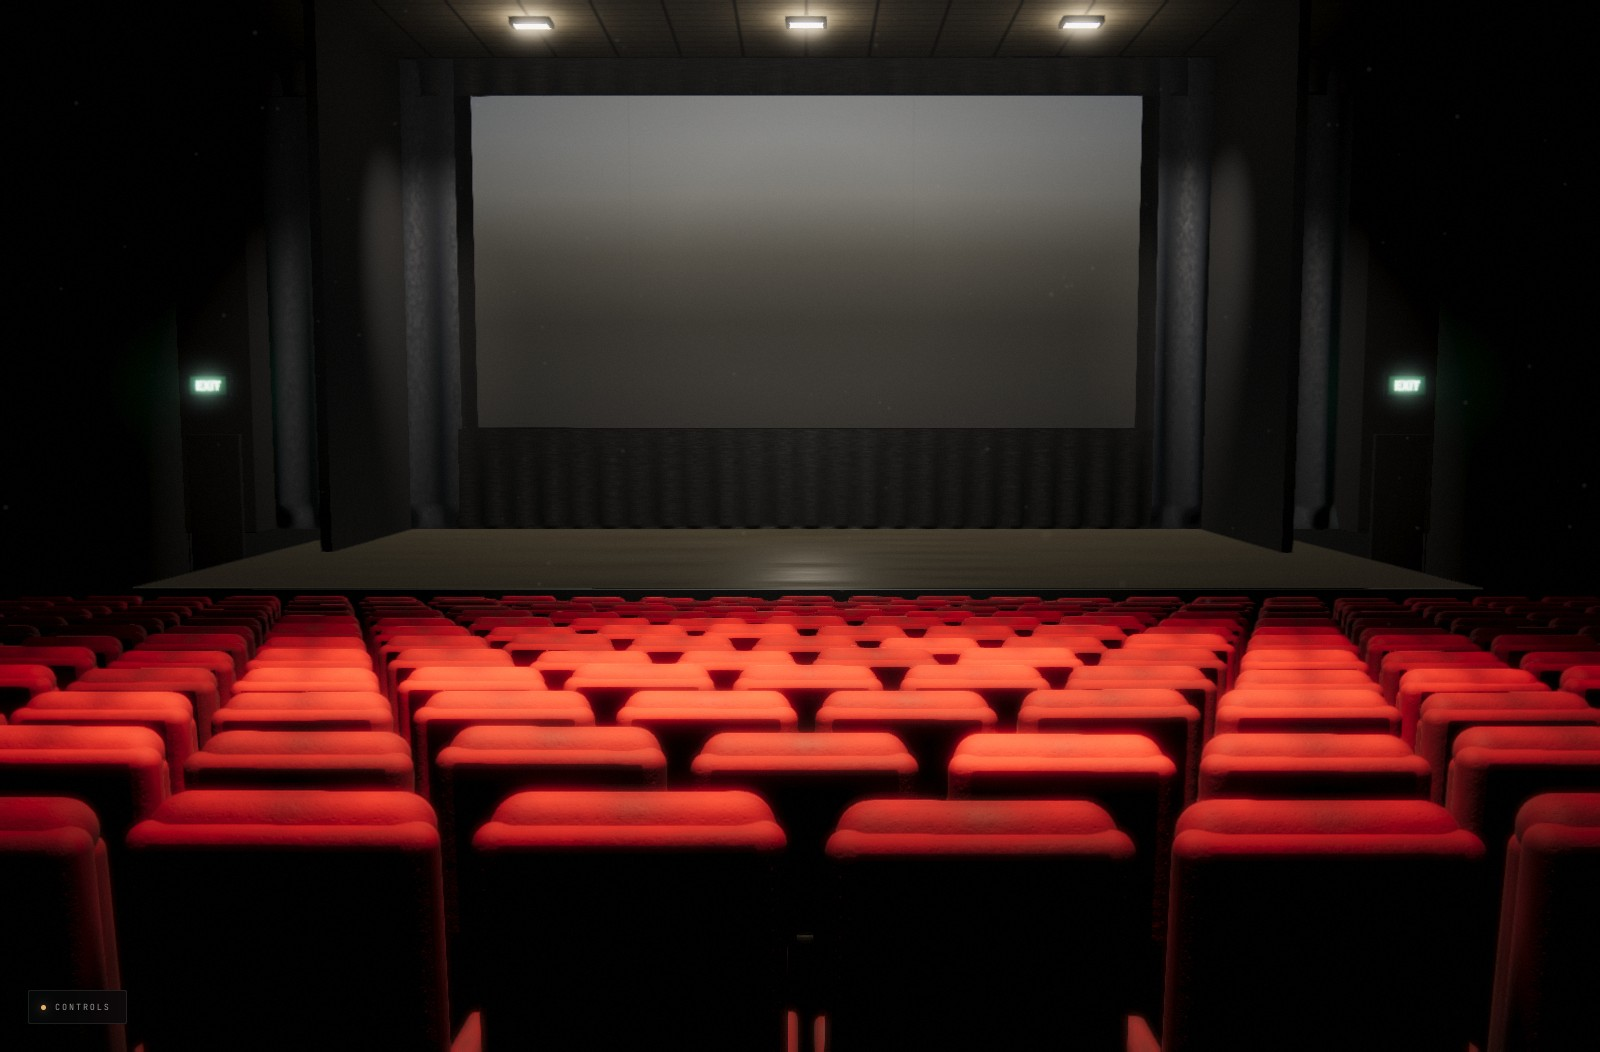
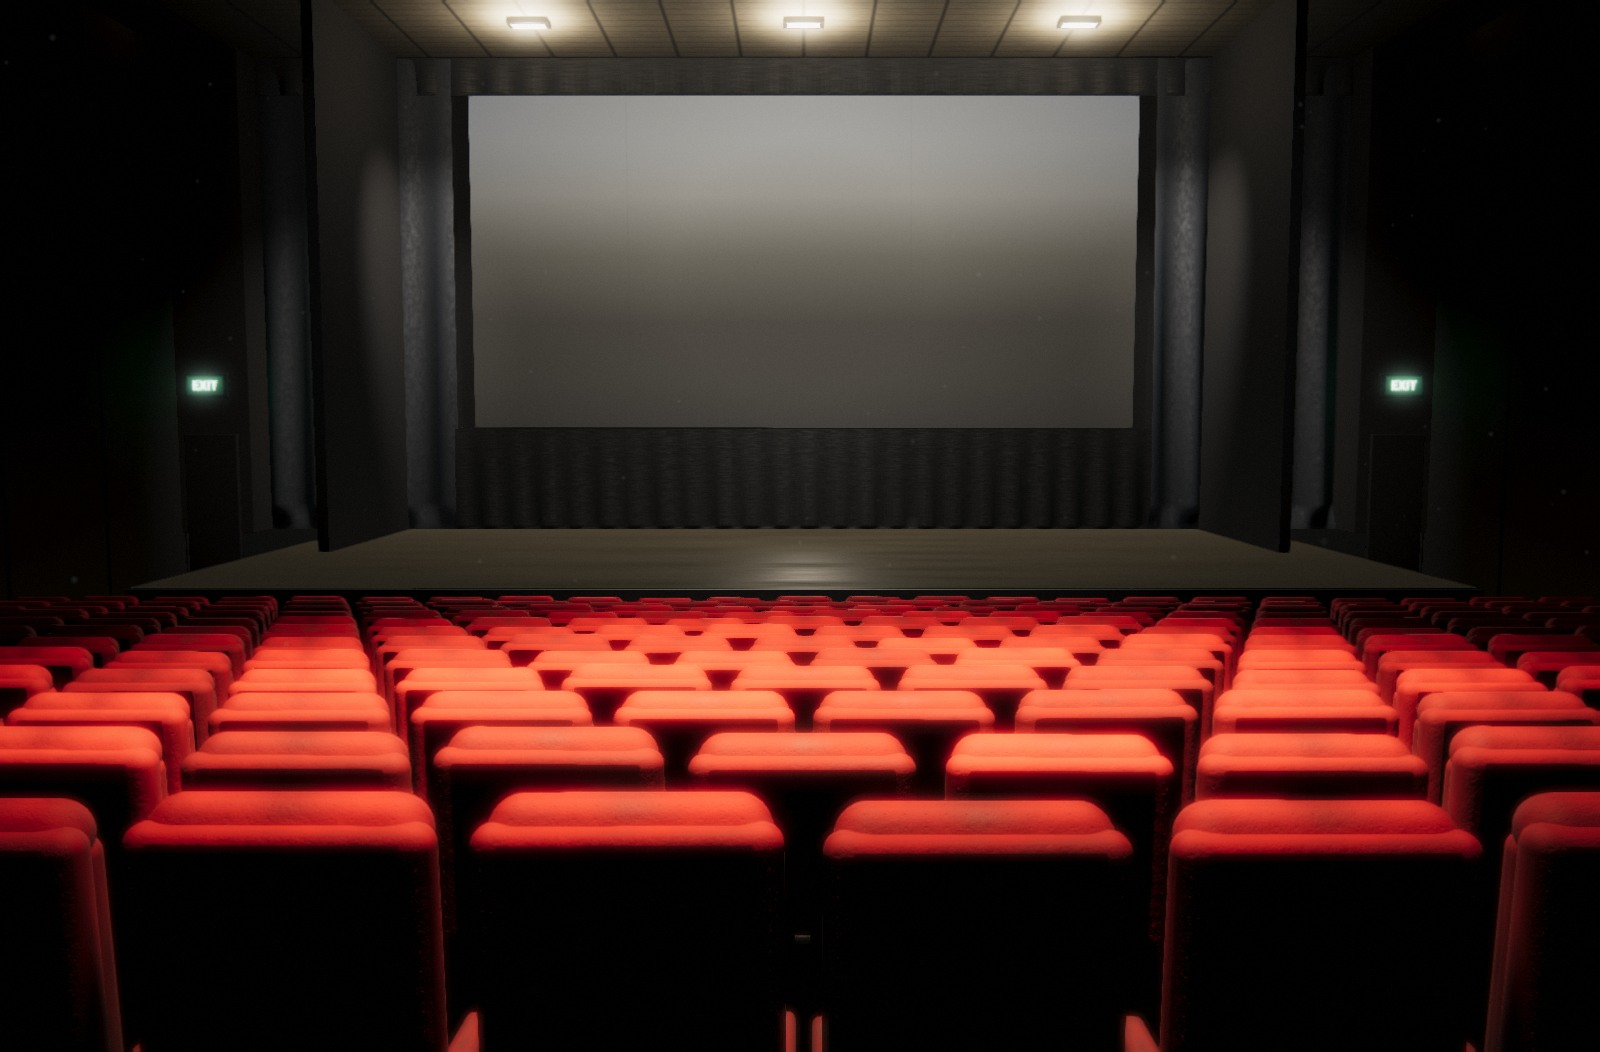
House-up and screen-down moods, clean plates without the console chip

diff --git a/src/theatre.js b/src/theatre.js
@@ -376,7 +376,9 @@ export function createTheatre(scene, renderer, camera) {
     apronLight.intensity = 19 * state.stage;
     rearDeck.intensity = 46 * state.stage;
     for (const l of legRakes) l.intensity = 78 * state.stage;
-    for (const l of ceilingGlows) l.intensity = 8 * state.stage;
+    const houseUp = Math.max(0, state.house - 0.95);
+    room.wallMat.emissiveIntensity = 0.07 + 0.16 * houseUp;
+    for (const l of ceilingGlows) l.intensity = 8 * state.stage + 30 * houseUp;
     stageWash.intensity = 0.8 * state.stage;
     drapeWash.intensity = 40 * state.stage;
     screenBounce.intensity = 5.4 * state.screen;

diff --git a/src/room.js b/src/room.js
@@ -408,6 +408,7 @@ export function buildRoom() {
 
   return {
     group: g,
+    wallMat,
     apronGlow,
     screen,
     screenMat,

diff --git a/README.md b/README.md
@@ -75,8 +75,8 @@ band by band — apron luminance, seat-field percentiles, red-channel saturation
 
 <table>
 <tr>
-<td width="50%"><img src="docs/screen-off.jpg" alt="Screen off"><div align="center"><sub><b>Screen down</b> — exit signs carry the room</sub></div></td>
-<td width="50%"><img src="docs/houselights.jpg" alt="House lights"><div align="center"><sub><b>House up</b> — stalls, rakes and aisles</sub></div></td>
+<td width="50%"><img src="docs/screen-off.jpg" alt="Screen off"><div align="center"><sub><b>Screen down</b> — only the exits</sub></div></td>
+<td width="50%"><img src="docs/houselights.jpg" alt="House lights"><div align="center"><sub><b>House up</b> — every practical on</sub></div></td>
 </tr>
 </table>
 
